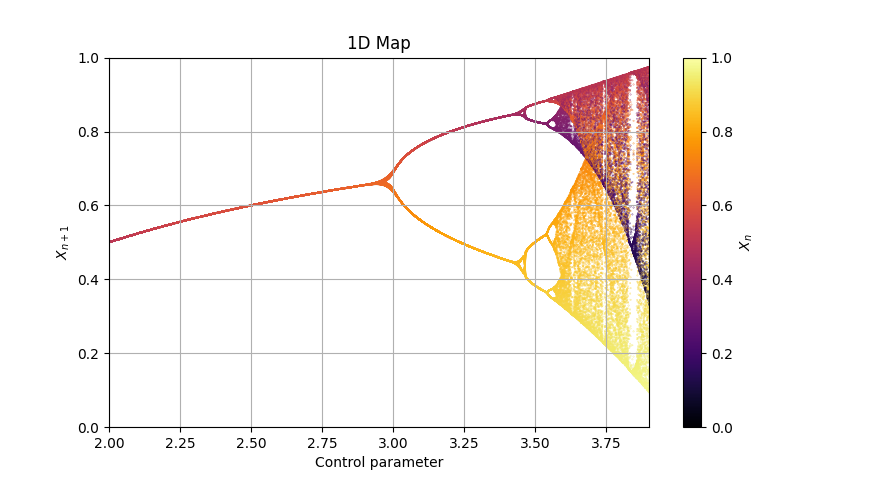
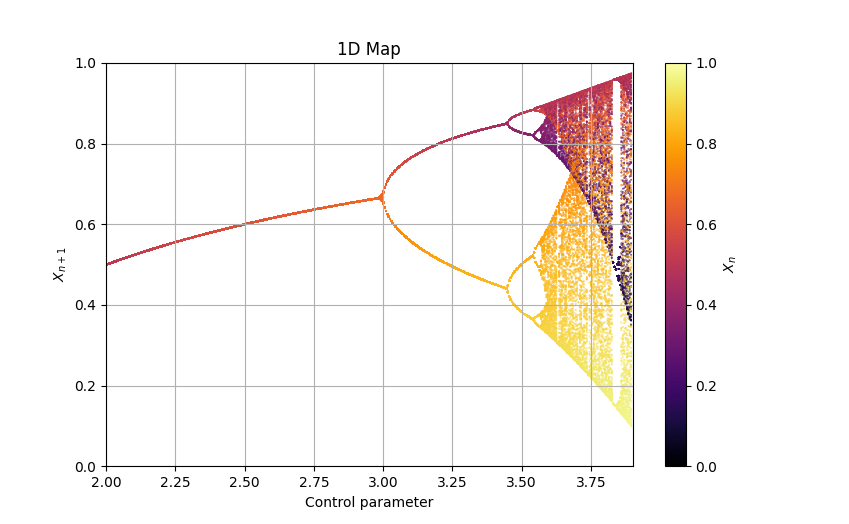
Small changes in documentation

diff --git a/docs/trajectory3d.md b/docs/trajectory3d.md
@@ -35,6 +35,7 @@ Gives the option to represent 3D trajectories given a [dF](dFfunction.md) functi
     Number of times `dF` is aplied between positions saved, by default 1
     
 * **xlabel** : str
+    
     x label of the plot, by default 'X'
     
 * **ylabel** : str
@@ -77,28 +78,60 @@ Inherits methods from parent class [trajectory](trajectory.md), a brief resume i
 3. Three ranges, such that `[[xAxisLowerLimit , xAxisUpperLimit], [yAxisLowerLimit , yAxisUpperLimit], [zAxisLowerLimit , zAxisUpperLimit]]`
 
 # Examples
+
+### Lorentz attractor: chaos
+
+Two trajectories with similar initial positions under the influence of Lorentz equations.
+
 ```python
 from phaseportrait import Trajectories3D
 
 def Lorenz(x,y,z,*, s=10, r=28, b=8/3):
-    return -s*x+s*y, -x*z+r*x-y, x*y-b*z
+    return  -s*x+s*y, 
+            -x*z+r*x-y, 
+            x*y-b*z
 
-a = Trajectory3D(Lorenz, lines=True, n_points=1300, size=3, mark_start_position=True, Title='Nearby IC on Lorenz attractor')
+a = Trajectory3D(
+    Lorenz, 
+    lines=True, 
+    n_points=1300, 
+    size=3, 
+    mark_start_position=True, 
+    Title='Nearby IC on Lorenz attractor'
+    )
+
 a.initial_position(10,10,10)
 a.initial_position(10,10,10.0001)
 a.plot()
 ```
 ![image](imgs/trj3d_example.png)
 
+
+### Halvorsen attractor
+
+In this example we are interested in seeing the attractor, not trajectories, under the Halvorsen equations.
+
 ```python
 from phaseportrait import Trajectories3D
 
 def Halvorsen(x,y,z, *, s=1.4):
-        delta = (3*s+15)
-        return -s*x+2*y-4*z-y**2+delta , -s*y+2*z-4*x-z**2+delta, -s*z+2*x-4*y-x**2+delta
+    delta = (3*s+15)
+    return  -s*x+2*y-4*z-y**2+delta, 
+            -s*y+2*z-4*x-z**2+delta, 
+            -s*z+2*x-4*y-x**2+delta
 
-    d = Trajectory3D(Halvorsen, dF_args={'s':1.4}, n_points=10000, thermalization=0, numba=True, size=2, mark_start_point=True, Title='Halvorsen attractor')
-    d.initial_position(0,5,10)
-    d.plot()
+d = Trajectory3D(
+    Halvorsen, 
+    dF_args={'s':1.4}, 
+    n_points=10000, 
+    thermalization=0, 
+    numba=True, 
+    size=2, 
+    mark_start_point=True, 
+    Title='Halvorsen attractor'
+    )
+
+d.initial_position(0,5,10)
+d.plot()
 ```
 ![image](imgs/trj3d_example_2.png)

diff --git a/docs/map1d.md b/docs/map1d.md
@@ -16,7 +16,7 @@ Class dedicated to 1 dimensional maps `x(t+1) = f(x)`.
 
 * **n_points** : int
 
-    Maximum number of points
+    Maximum number of points. Not recomended more than 5000.
 
 ### Key Arguments
 
@@ -182,17 +182,27 @@ Creates a `map` instance and computes it's positions.
 * tuple: `(matplotlib.pyplot.figure, matplotlib.pyplot.Axis)`
 
 # Examples
+
+[More Map1D and Cobweb examples.](mapsandcobweb_examples.md)
+
+### Logistic map: classic
+
+Lets represent the Logistic map over the control parameter **r**, in the range `[2, 3.9]`, with an interval of `0.005`.
+
 ```py
 def Logistic(x, *, r=1.5):
     return r*x*(1-x)
 
-# Create an instance of Map1D
-Logistic_Map = Map1D(Logistic, [2,3.9], [0,1], 5000, thermalization=50, size=0.05)
+Logistic_Map = Map1D(Logistic, [2,3.9], [0,1], 2000, thermalization=200, size=0.1)
 
-# We want to plot for r in the range 0 < r < 4, every 0.0005
-Logistic_Map.plot_over_variable('r', [0,4], 0.0005)
+# We add a limit cycle check because until r=3.5 there is not need of storing 2000 equal points for every r.
 
-# Plot
+Logistic_Map.plot_over_variable('r', [2,3.9], 0.005, 
+    limit_cycle_check_first=300, delta_cycle_check=0.01
+    )
+
 fig, ax = Logistic_Map.plot()
 ```
 ![image](imgs/map_example.png)
+
+

diff --git a/docs/installation.md b/docs/installation.md
@@ -1,3 +1,14 @@
-# We are working on it...
+# Installation
+**Installation via pip:**
 
-![image](imgs/404.jpg)
+> $ pip install phaseportrait
+
+**Installation via git:**
+
+Open a terminal on desired route and type the following
+> $ git clone https://github.com/phaseportrait/phaseportrait
+
+**Manual installation**
+
+Visit [phase-portrait](https://github.com/phaseportrait/phaseportrait) webpage on GitHub. Click on green button saying *Code*, and download it in zip format.
+Save and unzip on desired directory.
